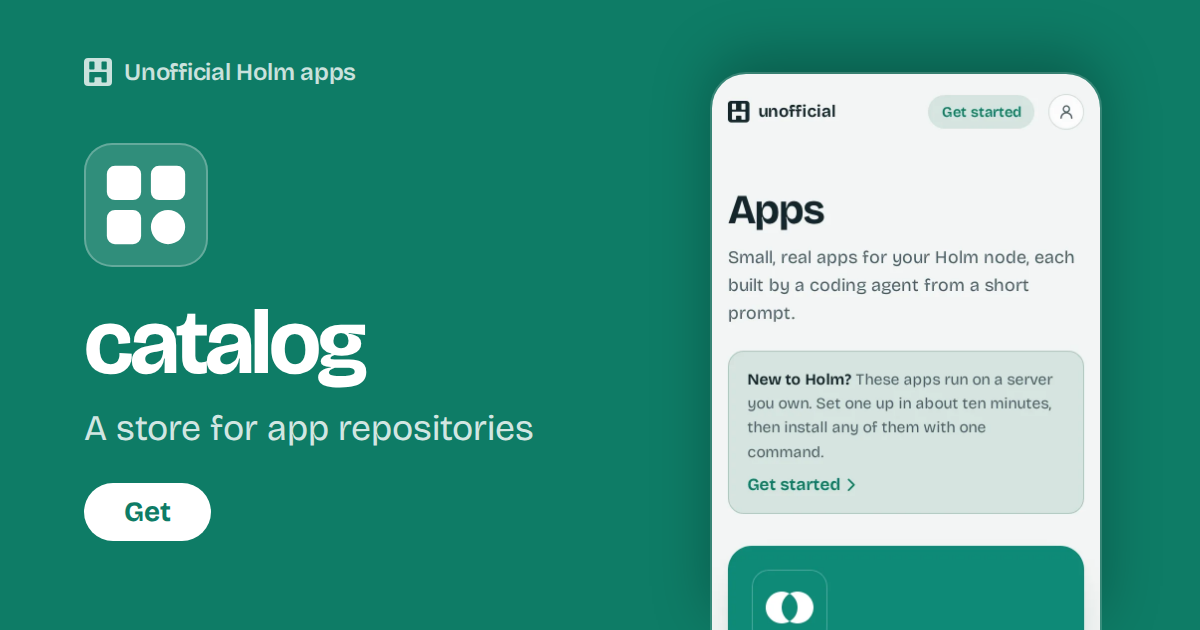
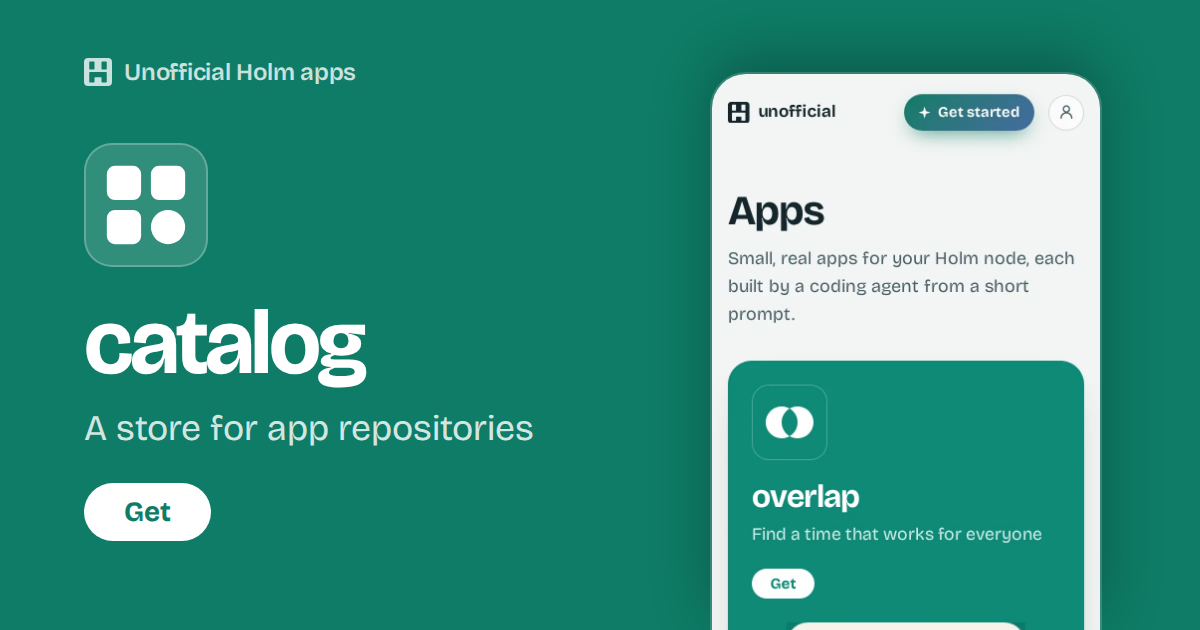
catalog 0.7.1: one Get started button, and it stands out
The front page's "New to Holm?" card is gone. The way in is the header's
Get started button on every page: a tinted pill with a sparkle, a soft
glow and a light that sweeps across it now and then, still for anyone
who prefers reduced motion and quiet on the guide itself.

diff --git a/catalog/web/src/styles.css b/catalog/web/src/styles.css
@@ -105,13 +105,40 @@ h2 { font-size: 1.35rem; line-height: 1.2; }
 .top { display: flex; align-items: center; justify-content: space-between; gap: 1rem; padding-block: 1.25rem; }
 main { flex: 1 0 auto; padding-bottom: 3.5rem; }
 .top-end { display: flex; align-items: center; gap: 0.85rem; }
+/* The way in for anyone without a node: a tinted pill with a sparkle, a soft
+   glow and a light that sweeps across it now and then. */
 .top-link {
-  font-size: 0.92rem; font-weight: 600; color: var(--accent);
+  position: relative; overflow: hidden; isolation: isolate;
+  display: inline-flex; align-items: center; gap: 0.4rem;
+  padding: 0.45rem 0.95rem 0.45rem 0.8rem; border-radius: 999px;
+  font-size: 0.92rem; font-weight: 650; color: #fff;
   text-decoration: none; white-space: nowrap;
-  padding: 0.35rem 0.85rem; border-radius: 999px; background: var(--accent-wash);
+  background: linear-gradient(135deg, var(--tint), color-mix(in oklab, var(--tint) 55%, #6a3fe0));
+  box-shadow: 0 8px 20px -8px color-mix(in oklab, var(--tint) 80%, transparent), inset 0 1px 0 rgba(255, 255, 255, 0.22);
+  transition: transform 160ms ease, box-shadow 160ms ease;
 }
-.top-link:hover { filter: brightness(0.97); }
-.top-link[aria-current="page"] { color: var(--ink-2); background: none; }
+.top-link svg { width: 0.95rem; height: 0.95rem; fill: currentColor; }
+.top-link::after {
+  content: ""; position: absolute; inset: 0 auto 0 0; z-index: -1;
+  width: 45%;
+  background: linear-gradient(100deg, transparent, rgba(255, 255, 255, 0.38), transparent);
+  transform: translateX(-120%);
+  animation: sweep 6s ease-in-out 1.2s infinite;
+}
+@keyframes sweep {
+  0% { transform: translateX(-120%); }
+  35%, 100% { transform: translateX(260%); }
+}
+@media (hover: hover) {
+  .top-link:hover { transform: translateY(-1px); box-shadow: 0 12px 24px -8px color-mix(in oklab, var(--tint) 85%, transparent), inset 0 1px 0 rgba(255, 255, 255, 0.22); }
+}
+@media (prefers-reduced-motion: reduce) {
+  .top-link { transition: none; }
+  .top-link::after { display: none; }
+}
+/* On the guide itself it steps back. */
+.top-link[aria-current="page"] { color: var(--ink-2); background: none; box-shadow: none; transform: none; }
+.top-link[aria-current="page"]::after { display: none; }
 .brand { display: inline-flex; align-items: center; gap: 0.55rem; text-decoration: none; font-weight: 650; letter-spacing: -0.01em; }
 .brand svg { width: 1.35rem; height: 1.35rem; }
 .quiet {
@@ -198,22 +225,6 @@ main { flex: 1 0 auto; padding-bottom: 3.5rem; }
 .masthead { padding-block: 2.5rem 1.5rem; }
 .masthead h1 { font-size: clamp(2.6rem, 8vw, 3.75rem); line-height: 1; letter-spacing: -0.035em; }
 .lede { margin: 0.85rem 0 0; max-width: 34em; font-size: 1.12rem; color: var(--ink-2); }
-
-.intro {
-  display: flex; align-items: center; gap: 0.75rem 1.5rem;
-  margin-top: 1.5rem; padding: 0.95rem 1.15rem;
-  border-radius: 16px; border: 1px solid color-mix(in oklab, var(--accent) 22%, var(--rule));
-  background: var(--accent-wash);
-  text-decoration: none;
-}
-.intro-text { flex: 1; min-width: 0; font-size: 0.98rem; color: var(--ink-2); }
-.intro-text strong { color: var(--ink); font-weight: 650; }
-.intro-go { flex: none; display: inline-flex; align-items: center; gap: 0.4rem; font-weight: 650; color: var(--accent); white-space: nowrap; }
-.intro-go svg { width: 0.5rem; height: 0.85rem; transform: scaleX(-1); fill: none; stroke: currentColor; stroke-width: 2.6; stroke-linecap: round; stroke-linejoin: round; }
-.intro:hover .intro-go { text-decoration: underline; text-underline-offset: 0.18em; }
-@media (max-width: 36rem) {
-  .intro { flex-direction: column; align-items: flex-start; gap: 0.5rem; }
-}
 
 .feature {
   display: grid;

diff --git a/catalog/web/src/app.js b/catalog/web/src/app.js
@@ -82,20 +82,13 @@ function featured(app) {
       shotImage({ src: shotURL(app, shot), alt: shot.alt, width: shot.width, height: shot.height })))
 }
 
-// The way in for someone who has no node yet.
-const intro = () => el('a', { class: 'intro', href: withRef('/start'), 'data-link': true },
-  el('span', { class: 'intro-text' }, el('strong', {}, 'New to Holm? '),
-    'These apps run on a server you own. Set one up in about ten minutes, then install any of them with one command.'),
-  el('span', { class: 'intro-go' }, 'Get started', chevron()))
-
 function storefront() {
   document.title = 'Unofficial Holm apps'
   const feature = index.apps.find(app => app.listing && app.listing.featured && app.listing.screenshots.length)
   show(
     el('section', { class: 'masthead' },
       el('h1', {}, 'Apps'),
-      el('p', { class: 'lede' }, 'Small, real apps for your Holm node, each built by a coding agent from a short prompt.'),
-      intro()),
+      el('p', { class: 'lede' }, 'Small, real apps for your Holm node, each built by a coding agent from a short prompt.')),
     feature && featured(feature),
     el('section', { class: 'shelf' },
       el('h2', {}, 'All apps'),

diff --git a/catalog/web/shell.html b/catalog/web/shell.html
@@ -32,7 +32,7 @@
       <span>unofficial</span>
     </a>
     <div class="top-end">
-      <a class="top-link" href="/start" data-link>Get started</a>
+      <a class="top-link" href="/start" data-link><svg viewBox="0 0 24 24" aria-hidden="true"><path d="M12 2.5l2.2 7.3 7.3 2.2-7.3 2.2-2.2 7.3-2.2-7.3L2.5 12l7.3-2.2z"/></svg>Get started</a>
       <div class="account" id="account"></div>
     </div>
   </header>

diff --git a/catalog/PROMPT.md b/catalog/PROMPT.md
@@ -41,7 +41,7 @@ third-party runtime CDN; vendor fonts and any libraries with licenses.
   holm @<peer> app install github.com/<org>/<repo>/<app>@v<version> --host
   <host>, a clone-a-tag holm app deploy <app> --spec-v1, and an agent prompt
   following the app README.
-- A /start guide, linked from the header, the front page and the sheet, for
+- A /start guide, linked from a header button that stands out and the sheet, for
   someone with no node who will hand the work to a coding agent, never a
   terminal: what Holm is, why a node puts every app here one request away,
   then pick an app and where it runs (this computer, a server, an existing
@@ -170,6 +170,11 @@ became its first, working way.
 **Iteration 8**:
 
 > I think we should design the guide such that, we assume no human will run it but an agent will only do it
+
+**Iteration 9**, about a "New to Holm?" card the front page had then:
+
+> That header is a bit weird in home page; about get started
+> - i think we can simply have the top navbar get started button, perhaps in a bit of fancy design so people may notice?
 
 The build request spells out the repository conventions without claiming
 they are a shipped Holm store protocol. It uses the public v1 guide for

diff --git a/catalog/README.md b/catalog/README.md
@@ -23,11 +23,11 @@ out of this app's deploy. They are still public source in this repository.
 
 ## What it does
 
-- **Front page:** a "New to Holm?" card linking to the guide, a featured app
-  on its own colour, then every app as a row with its icon, subtitle,
-  category and a Get button.
-- **Get started** at `/start`, linked from the header on every page, the
-  front page and the install sheet. It assumes the reader never types a
+- **Front page:** a featured app on its own colour, then every app as a row
+  with its icon, subtitle, category and a Get button.
+- **Get started** at `/start`, linked from the install sheet and from the
+  header on every page, where it is a tinted pill with a sparkle and a light
+  that sweeps across it now and then (still for reduced motion). It assumes the reader never types a
   command: a coding agent does the work, and the reader answers what is
   theirs to decide. One long page:
   - what Holm is, beside the conversation the setup prompt starts, and a
